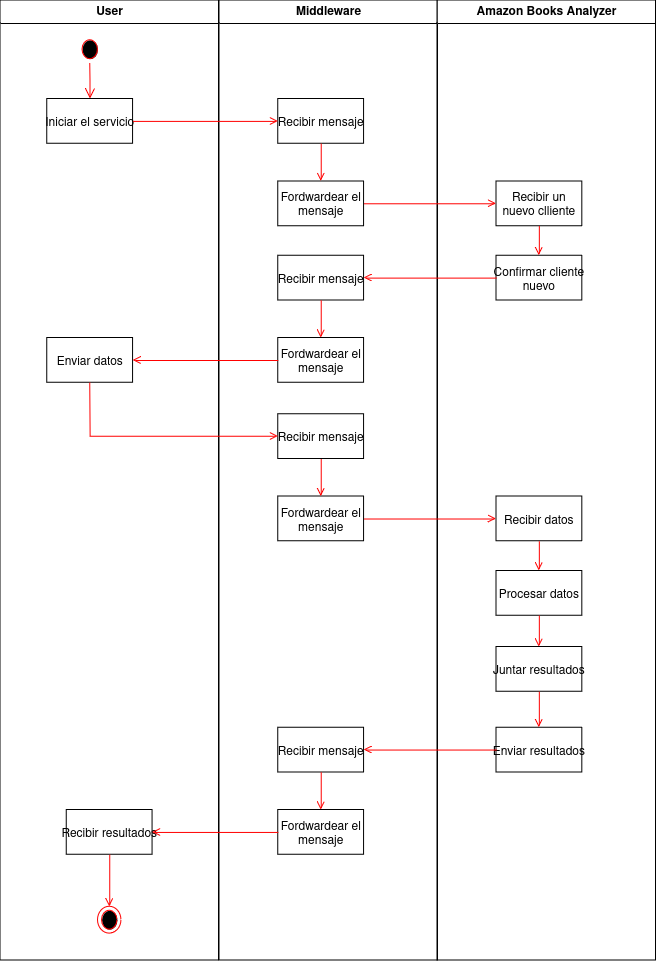
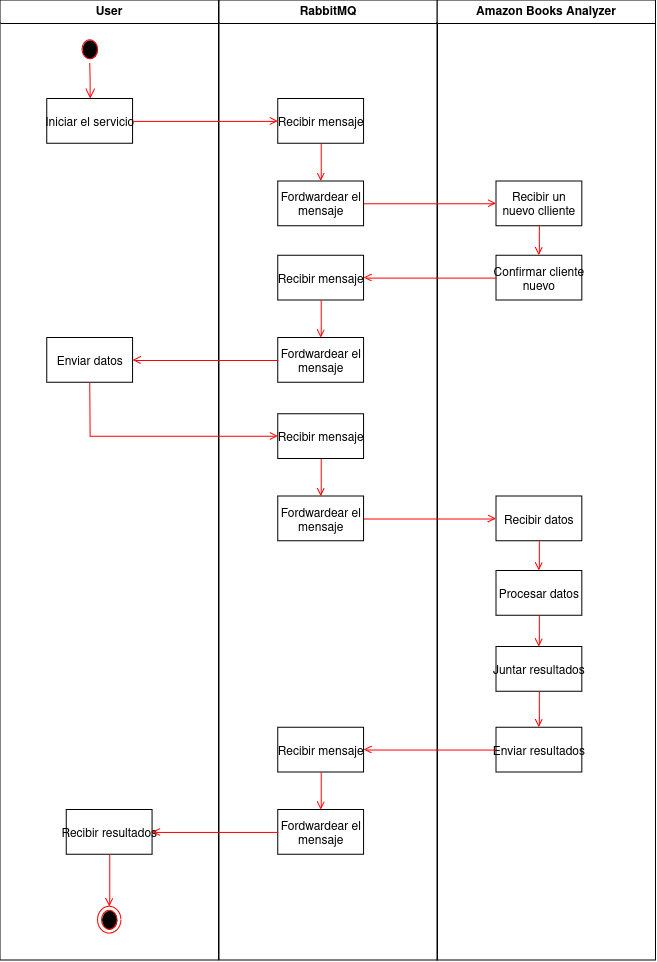
Improvements on Informe.md

diff --git a/Informe.md b/Informe.md
@@ -46,16 +46,27 @@ La arquitectura C4 es una forma de representar la arquitectura de un sistema de 
 En el nivel 1 se muestra el sistema completo, en el nivel 2 se muestra el sistema dividido en containers y en el nivel 3 se muestran los componentes dentro de los containers y en el nivel 4 se observa la interacción entre el código de cada componente.  
 #### <span style="color:#09ff05">**Nivel 1**</span>
 <p align="center"><img src="./images/c4System.png" /> </p>
+En el primer nivel podemos observar un contexto general de lo que es el sistema completo, donde el usuario interactua con el sistema para hacer consultas o queries y el sistema se encarga de procesar y devolver los resultados.  
 
 #### <span style="color:#09ff05">**Nivel 2**</span>
 <p align="center"><img src="./images/c4Containers.png" /> </p>
+En el nivel 2, adentrandonos más en el sistema, vemos los diferentes containers que hay en el sistema. Un container es externo a este y se trata del cliente quien proveera los datos para que las queries hagan el procesamiento correspondiente. El server se encarga de recibir los datos y enviar los resultados, es la boundary entre el cliente y el sistema, mientras que el query coordinator recibe la información del servidor utilizando el middleware (container RabbitMQ que se encarga de la comunicación entre el resto de containers) y se encarga de distribuir los datos a los pipelines correspondientes. Por último, los pipelines son los encargados de procesar los datos y devolver los resultados al query coordinator, estos están compuestos por los containers "Workers" que realizan la tarea de procesamiento. 
 
 #### <span style="color:#09ff05">**Nivel 3**</span>
 <p align="center"><img src="./images/c4Component.png" /> </p>
 
 #### <span style="color:#09ff05">**Nivel 4**</span>
-<p align="center"><img src="./images/C4Code.png" /> </p>
-
+##### <span style="color:#09ff05">**Codigo de container de workers**</span>
+Para este container, como vimos en el Nivel 3, tenemos 3 componentes distintos. El primero del que hablaremos es el Middleware component. Este es muy simple ya que nos dejara comunicar las distintas partes de nuestro sistema. Primero tenemos una funcion para inicar la conexion con el broker. Una vez ejecutada podremos escribir o leer atraves de otras 2 funciones. Esto se simplifico con lo que realmente pasa en el codigo del proyecto para poder facilitar la comprension del diagrama. La parte de la inicializacion creacion de una instancia de la clase Middleware la que por dentro al iniciarse ahce la conexion al broker. Luego las partes de lectura y escritura en el codigo se pueden ver como _receive_messages()_ o _subscribe()_ y _send_message()_ o _publish_message()_.  
+Luego tenemos el componente de serializacion. Este componente nos permite de manera consistente usar una misma  serializacion y des-serializacion a lo largo de todo el sistema. Por dentro hay varias funciones que consideran distintos casos y los transforman en uno.  
+Por ultimo, tenemos el job component. Este es muy simple ya que se refiere al trabajo que debe ejecutar el worker. Aqui se recibe un batch de datos, se procesa y se mandan los resultados al siguiente filtro.
+![](./images/c4CodeWorker.png)
+##### <span style="color:#09ff05">**Codigo de container de server**</span>
+Devuelta en este container tenemos los componentes de middleware y serialization previamente explicados. Lo que se agrega es un nuevo componente que tiene una funcion muy simple la cual es fordwardear data. El server es nuestra entidad boundary por ende debe recibir data que viene desde afuera del sistema y enviarla adentor. Lo mismo a la hora de recibir resultados y enviarlos hacia afuera del sistema.
+![](./images/c4CodeServer.png)
+##### <span style="color:#09ff05">**Codigo de container de Query Coordinator**</span>
+Por ultimo tenemos el componente del Query Coordinator. Usando el middleware y el modulo de serializacion, el coordinator puede recibir informacion recien recibida en el sistema y gestionarla de tal manera que le permite a las queries recibir la informacion que cada una necesita y no mas que eso. Ademas, es el encargado de sincronizar los resultados y ir guardandolos hasta que sea el momento de enviarlos.
+![](./images/c4CodeCoordinator.png)
 ## <span style="color:#9669f0"> Diagrama de robustez </span>
 A continuación podemos observar el diagrama de robustez que nos indica cómo se relacionan las entidades del sistema y la manera de comunicación entre ellas mediante boundaries, controllers y entities.  
 ![](./images/DiagramaRobustez.png)
@@ -68,24 +79,30 @@ En el diagrama de despligue podemos ver como se agrupan los diferentes nodos del
 En los diagramas de actividad se muestra el flujo de la actividad de cada consulta en el sistema y cómo pasa un mensaje para su procesamiento entre los distintos workers y el middleware.  
 #### <span style="color:#09ff05">**Diagrama de flujo**</span>
 <p align="center"><img src="./images/DiagramaActividadFlujo.png" /> </p>
-
+Se dá el intercambio de mensajes entre el sistema y el cliente de manera que este último tiene los resultados de las queries al final del flujo.
+ 
 #### <span style="color:#09ff05">**Query 1**</span>
 <p align="center"><img src="./images/DiagramaActividadesQ1.png" /> </p>
+Se pasa por los diferentes filtros donde cada uno se encarga de filtrar los datos según su funcionalidad específica. En cada caso siempre se comunican todo mediante el middleware hasta llegar al final donde se envían los resultados al query coordinator.
 
 #### <span style="color:#09ff05">**Query 2**</span>
 <p align="center"><img src="./images/DiagramaActividadesQ2.png" /> </p>
+El worker contador cuenta las décadas distintas en las que un autor ha publicado y luego se envía al worker acumulador que se encarga de acumular los resultados de todos los workers contadores obviando aquellos que ya han sido contados.
 
 #### <span style="color:#09ff05">**Query 3**</span>
 <p align="center"><img src="./images/DiagramaActividadesQ3.png" /> </p>
+Se filtra primero por la década de los 90 con el mismo filtro que la query 1, luego se cuenta las reseñas de cada uno de estos títulos filtrados y se acumulan para luego ver al final si tienen más de 500 reseñas.
 
 #### <span style="color:#09ff05">**Query 4**</span>
 <p align="center"><img src="./images/DiagramaActividadesQ4.png" /> </p>
+Esta query reutiliza los resultados de la query 3 para calcular el promedio de rating de los libros. A partir de estos promedios, varios workers generan sus propios top 10. Una vez que no llegan mas datos envian sus top 10 a un acumulador. Este ultimo worker se encarga de conseguir el top 10 entre todos los top 10 recibidos y ese es el resultado del pipeline.
 
 #### <span style="color:#09ff05">**Query 5**</span>
 <p align="center"><img src="./images/DiagramaActividadesQ5.png" /> </p>
 
 #### <span style="color:#09ff05">**Manejo de EOF entre workers**</span>
 <p align="center"><img src="./images/DiagramaActividadesEOF.drawio.png" /> </p>
+Un worker puede ser líder o no lider, si no lo es simplemente recibe mensajes hasta que este sea un EOF y en ese caso lo manda al líder. El líder hace lo mismo pero en caso de recibir un EOF espera que todos los workers le manden un EOF para poder mandar el EOF al siguiente worker.
 
 ## <span style="color:#9669f0"> Resultados </span>
 
